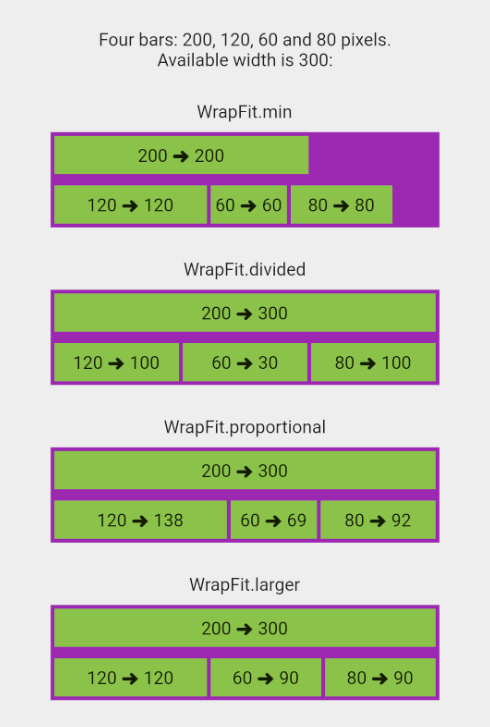
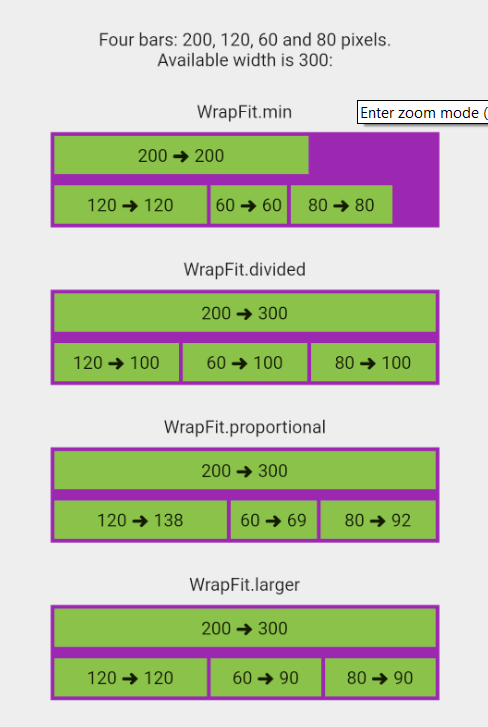
Fix doc details.

diff --git a/example/lib/main_wrap_super_fit.dart b/example/lib/main_wrap_super_fit.dart
@@ -50,7 +50,7 @@ class Demo extends StatelessWidget {
               _wrap(WrapFit.min,
                   [box(200, 200), box(120, 120), box(60, 60), box(80, 80)]),
               _wrap(WrapFit.divided,
-                  [box(200, 300), box(120, 100), box(60, 30), box(80, 100)]),
+                  [box(200, 300), box(120, 100), box(60, 100), box(80, 100)]),
               _wrap(WrapFit.proportional, [
                 box(200, 300),
                 box(120, (120 / (120 + 60 + 80) * 300).toInt()),

diff --git a/CHANGELOG.md b/CHANGELOG.md
@@ -1,4 +1,4 @@
-## [4.0.3] - 2021/04/10
+## [4.0.4] - 2021/04/10
 
 * `WrapSuper.wrapFit` parameter.
 * `ButtonBarSuper` parameter.
